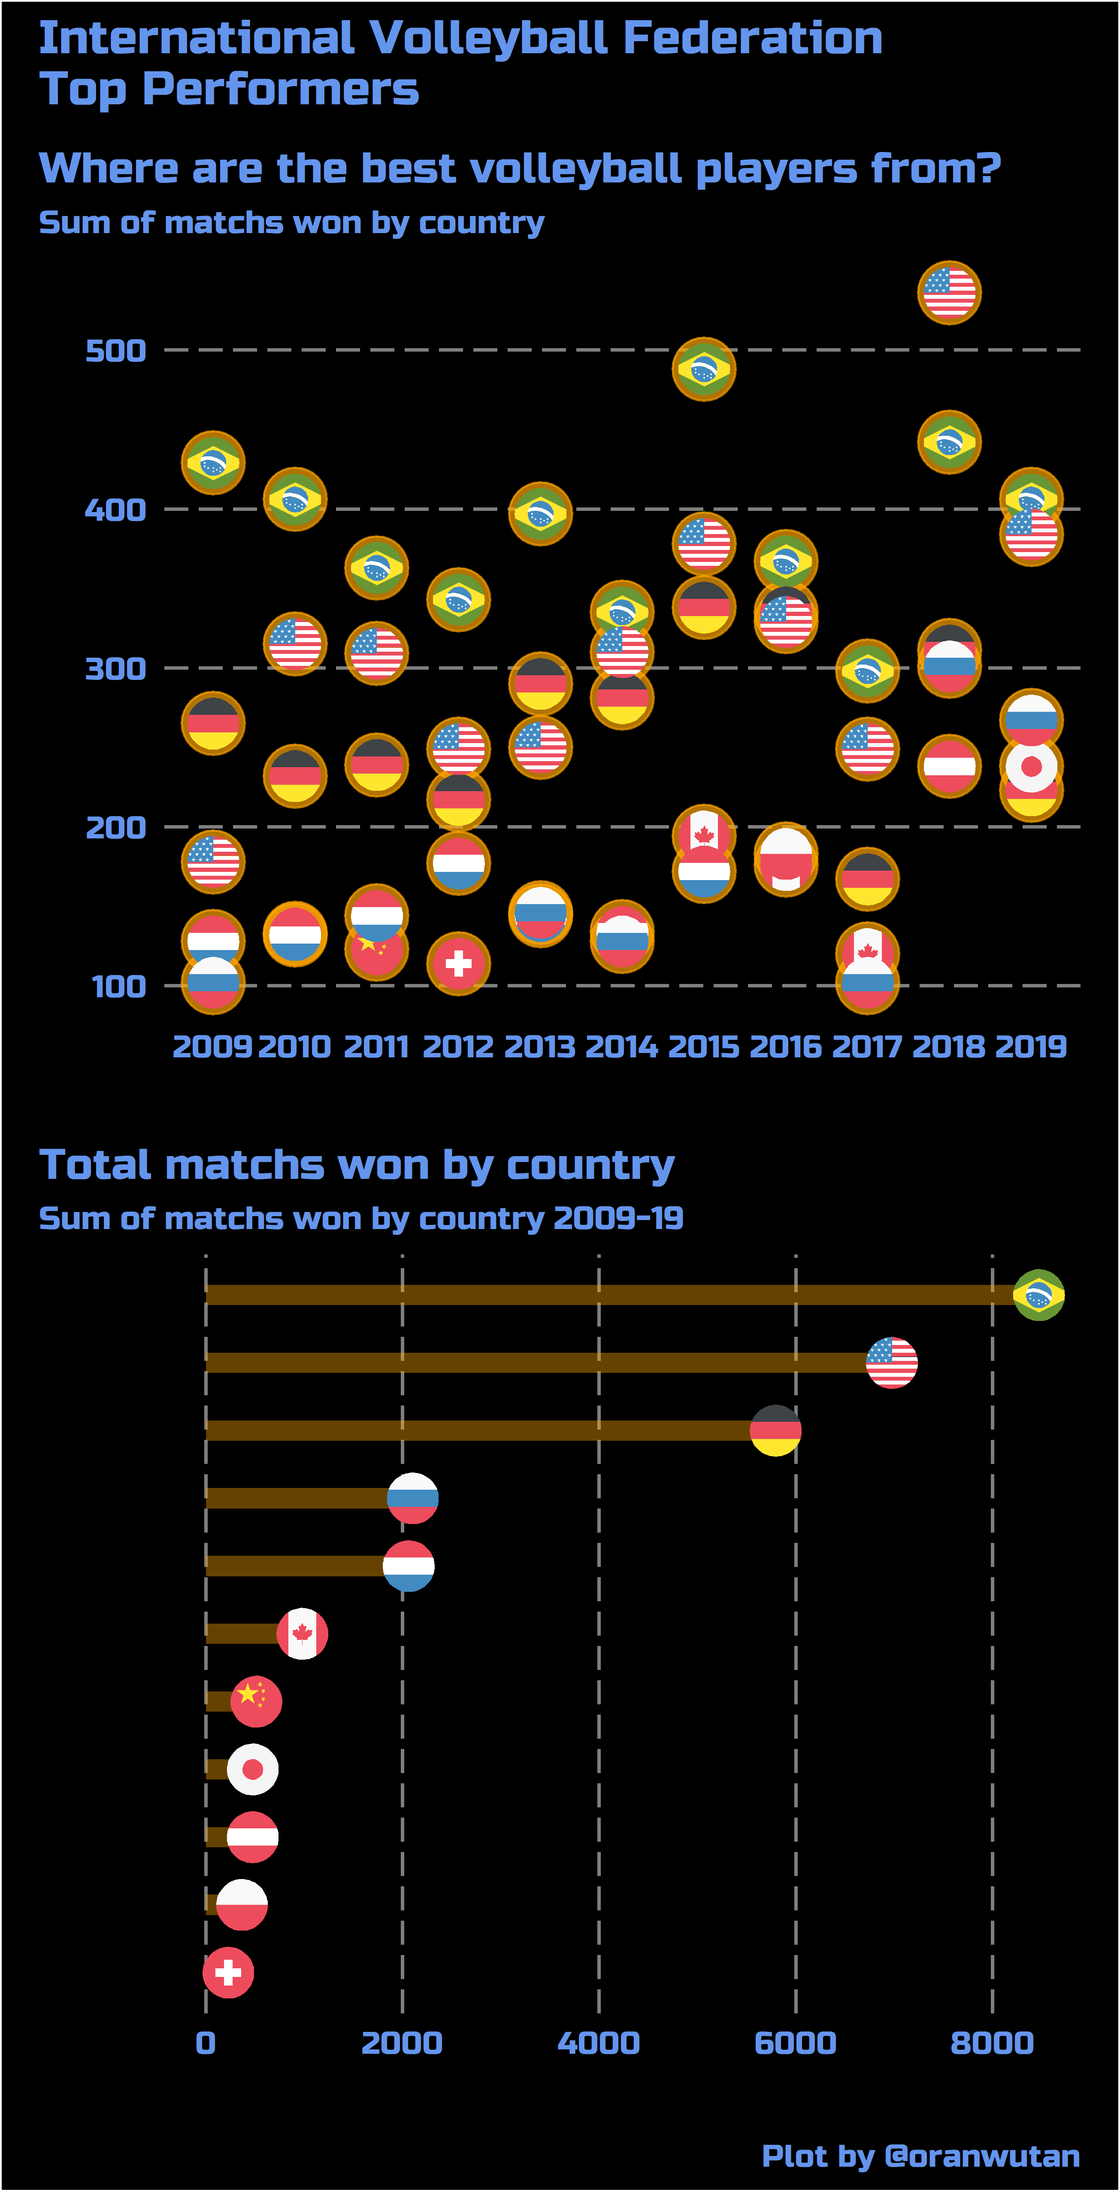
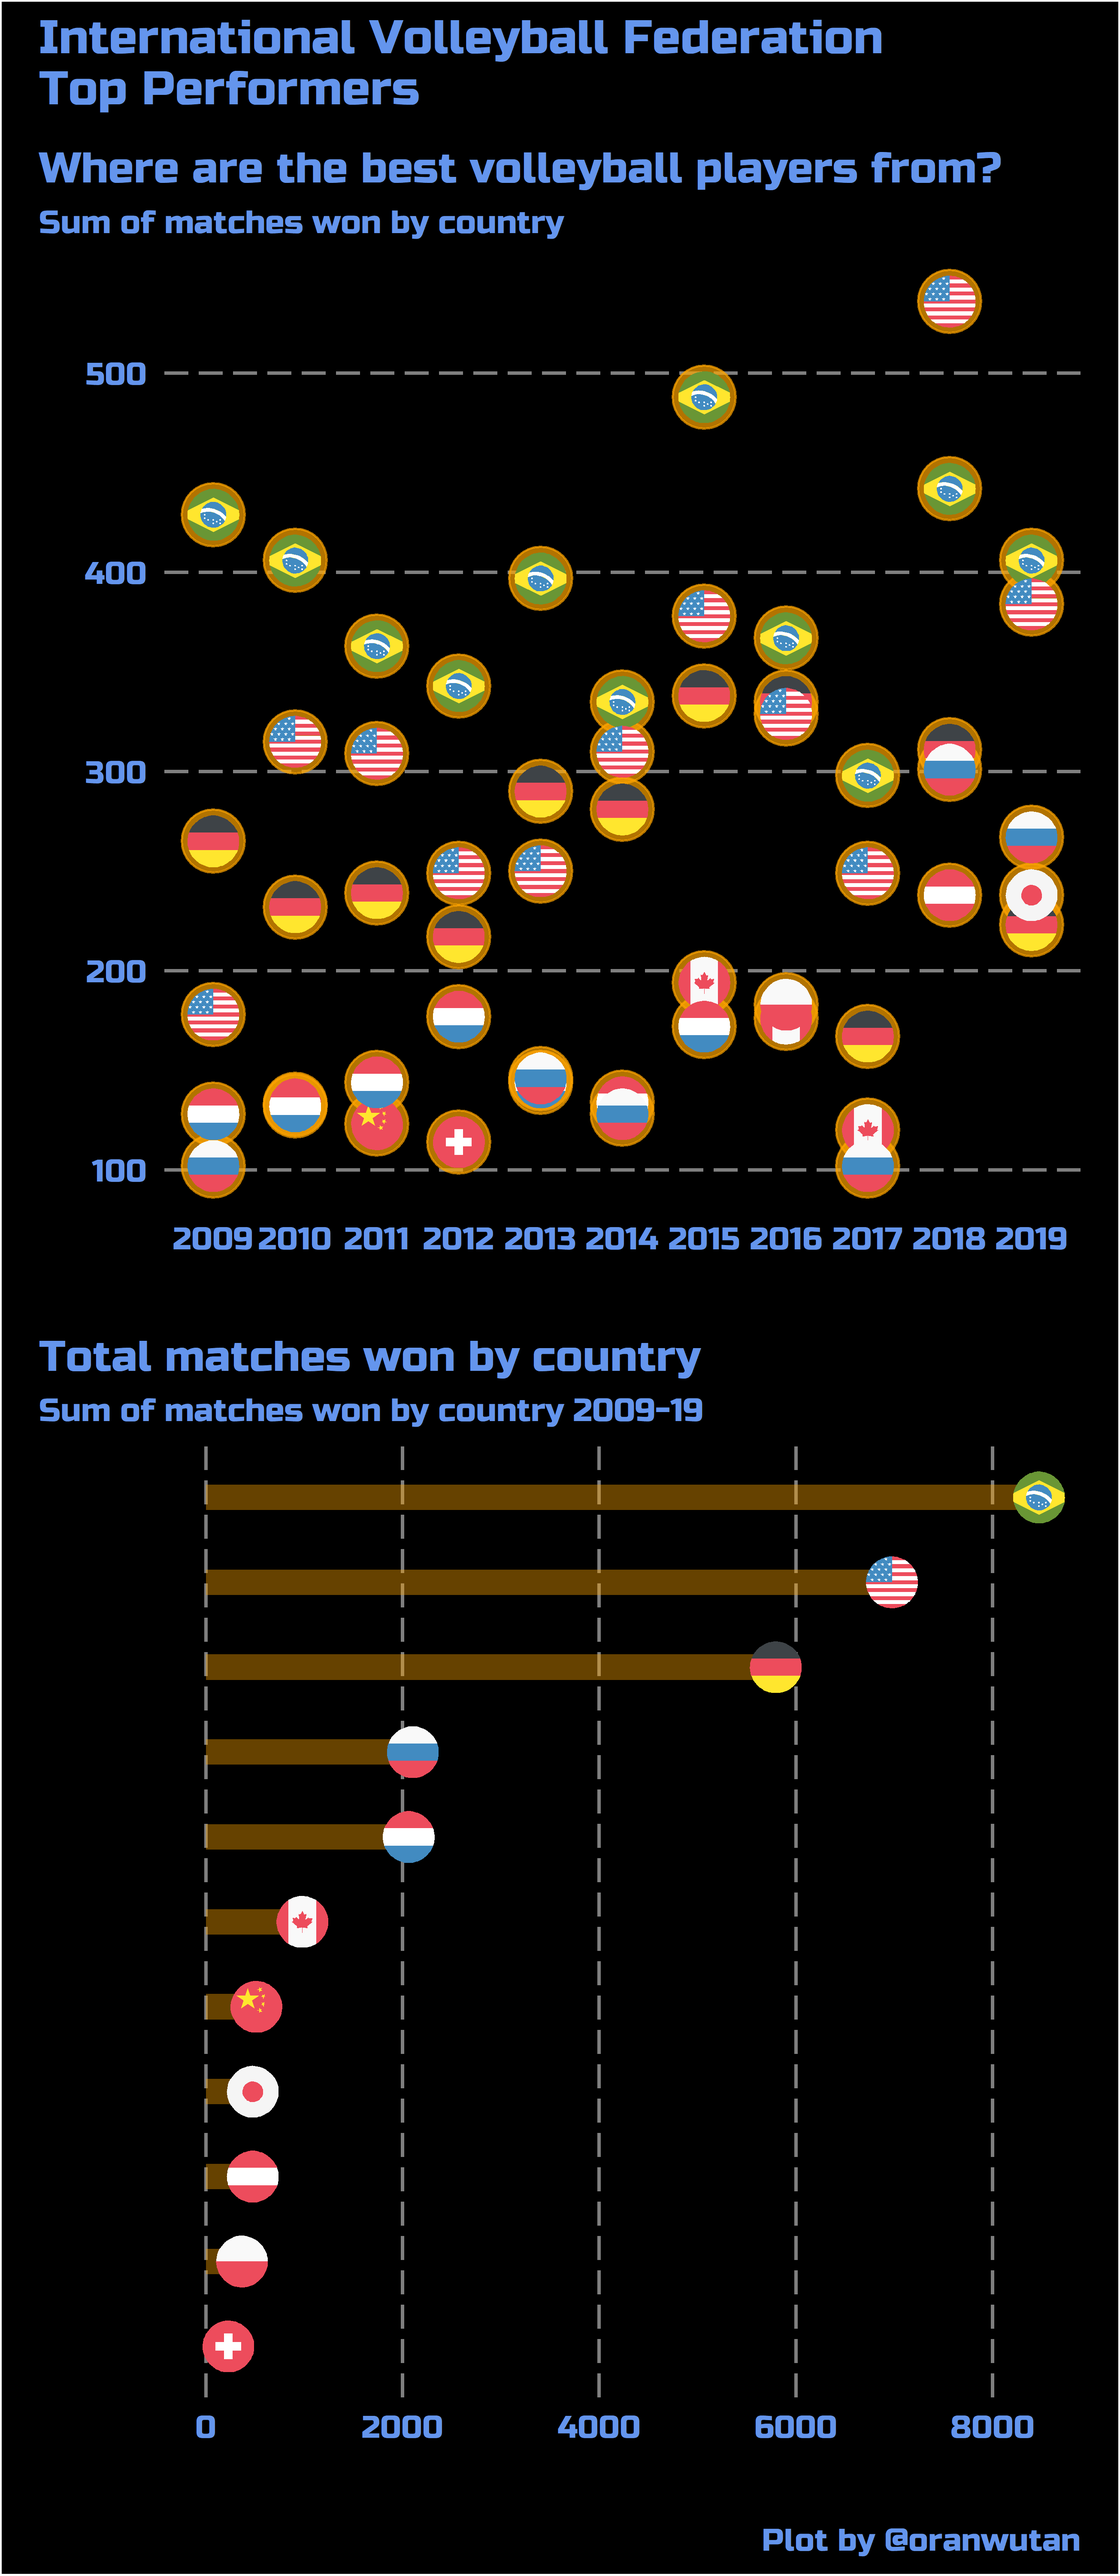
Amessagetoyourudy

diff --git a/Volleyball_2020_05_18/README.md b/Volleyball_2020_05_18/README.md
@@ -1,6 +1,7 @@
 ## Volleyball
 
-![Volleyball](FIVB.png)
+![Volleyball](FIVB.png)  
+
 ```{r}
 # remotes::install_github("rensa/ggflags") 
 
@@ -53,7 +54,7 @@ p1 <- winners %>% ggplot(aes(x=as.factor(year), y=n.x, country=Country))+
         panel.grid.major.y = element_line(linetype = "longdash", color = "gray50"),
         plot.title.position = "plot")+
   labs(title = "Where are the best volleyball players from?",
-       subtitle = "Sum of matchs won by country",
+       subtitle = "Sum of matches won by country",
        y="", x="")
   
 
@@ -64,8 +65,8 @@ p2 <- winners %>%
   ggplot(aes(x=Total, y=reorder(Country, Total), country=Country))+
   geom_col(width = 0.3, fill="orange", alpha=0.4)+
   geom_flag(size=6)+
-  labs(title = "Total matchs won by country",
-       subtitle = "Sum of matchs won by country 2009-19",
+  labs(title = "Total matches won by country",
+       subtitle = "Sum of matches won by country 2009-19",
        y="", x="")+
   theme_minimal()+
   theme(text = element_text(color = "cornflowerblue",
